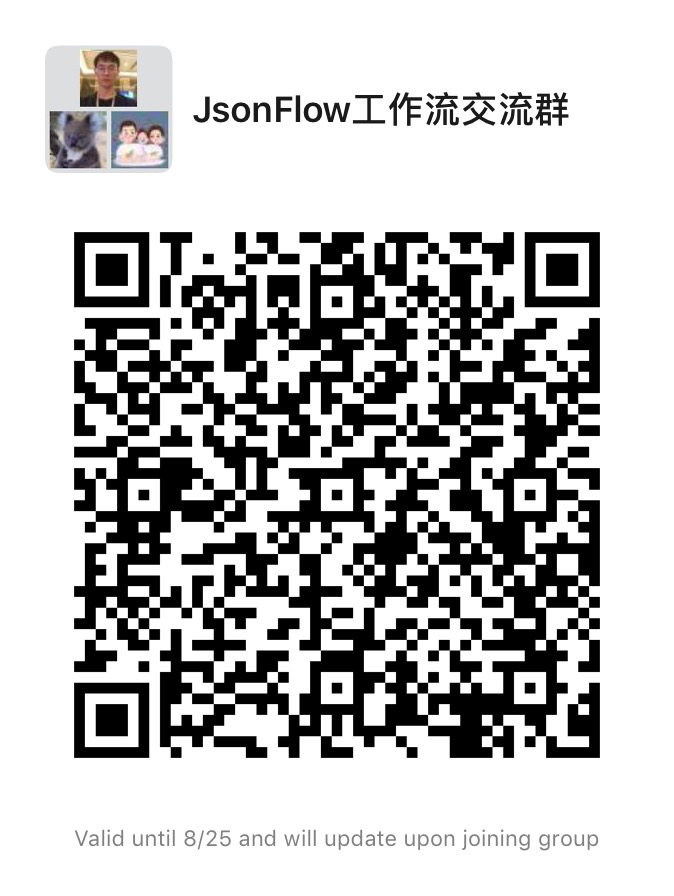
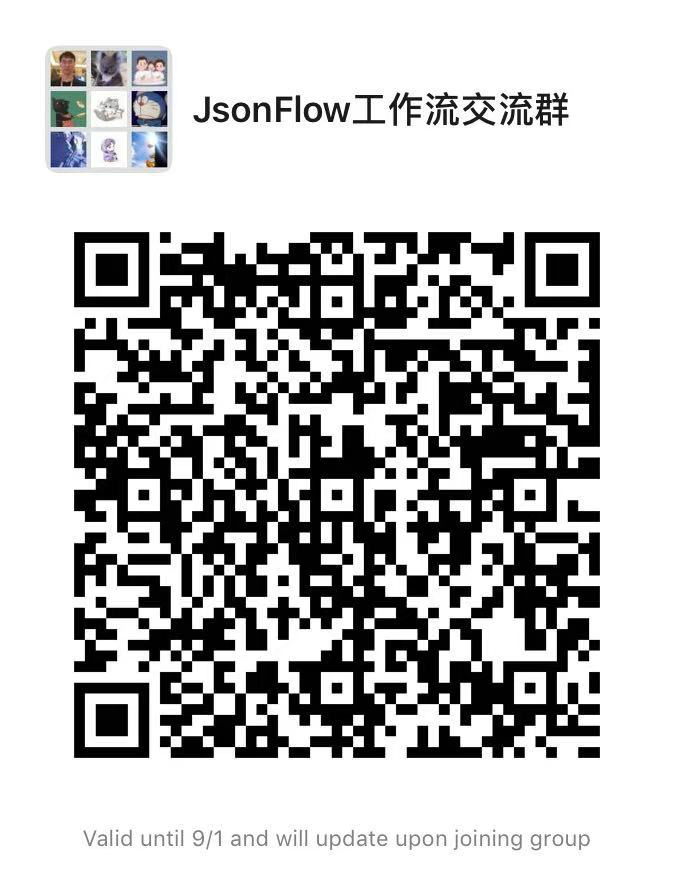
:sparkles: :fire: 修改说明文档

Changed region(s): [[0.0935, 0.25, 0.9036, 0.8438], [0.1246, 0.9062, 0.8724, 0.9688], [0.0623, 0.0312, 0.2493, 0.1875]]

diff --git a/README.md b/README.md
@@ -1,5 +1,10 @@
-#### JsonFlow在线演示
+![08](public/favicon.ico)
+
+[![star](https://gitee.com/jackrolling/json-flow-ui/badge/star.svg?theme=dark)](https://gitee.com/jackrolling/json-flow-ui/stargazers) [![fork](https://gitee.com/jackrolling/json-flow-ui/badge/fork.svg?theme=dark)](https://gitee.com/jackrolling/json-flow-ui/members) <img src="https://img.shields.io/badge/release-v1.0.0-brightgreen.svg"> <img src="https://shields.io/badge/license-APACHE2.0-blue">
+
+### JsonFlow在线演示
 [点击预览](https://jackrolling.github.io/#/)
+[Gitee最新](https://gitee.com/jackrolling/json-flow-ui)
 
 ### 如果觉得不错，给作者一个⭐小星星⭐Star⭐吧
 #### 绝对简单易用且适合较复杂场景的中国式审批的工作流（工作流引擎+前端工作流管理界面，请加群咨询）
@@ -80,6 +85,81 @@
   ![08](public/flow/08.png)
 - 工作流界面十余个，更多功能期待你体验...
 
+#### 数据结构
+```json
+{
+  "nodeList": [
+    {
+      "type": "start",
+      "nodeName": "开始",
+      "icon": null,
+      "attrs": {
+        "pcTodoUrl": null,
+        "pcFinishUrl": null
+      },
+      "clazz": {
+        "clazz": null,
+        "methods": null
+      },
+      "defJob": {
+        "jobName": "任务名称",
+        "userId": null,
+        "roleId": null
+      },
+      "jobSize": 1,
+      "id": "1661145449179000002",
+      "height": 50,
+      "x": 210,
+      "width": 50,
+      "y": 205
+    },
+    {
+      "type": "serial",
+      "nodeName": "串行节点",
+      "icon": null,
+      "attrs": {
+        "pcTodoUrl": null,
+        "pcFinishUrl": null
+      },
+      "clazz": {
+        "clazz": null,
+        "methods": null,
+      },
+      "defJob": {
+        "jobName": "任务名称",
+        "userId": null,
+        "roleId": null
+      },
+      "jobSize": 1,
+      "status": null,
+      "id": "1661145452800000003",
+      "height": 50,
+      "x": 315,
+      "width": 120,
+      "y": 235
+    }
+  ],
+  "linkList": [
+    {
+      "type": "link",
+      "label": "",
+      "sourceId": "1661145449179000002",
+      "targetId": "1661145452800000003",
+      "attrs": {
+        "varKey": null,
+        "varVal": null
+      },
+      "id": "1661145456855000004",
+      "icon": null
+    }
+  ],
+  "attrs": {
+    "id": "1661145437059000001"
+  },
+  "status": "0"
+}
+```
+
 #### 本地安装
 
 * 下载本项目：npm install
@@ -90,6 +170,7 @@
 
 #### 关于作者&&微信群
 - 欢迎大家进群一起交流 🔥🔥🔥
+- 如果群二维码失效了，可以直接加我微信拉群，感谢
 
 <table>
   <tr>
